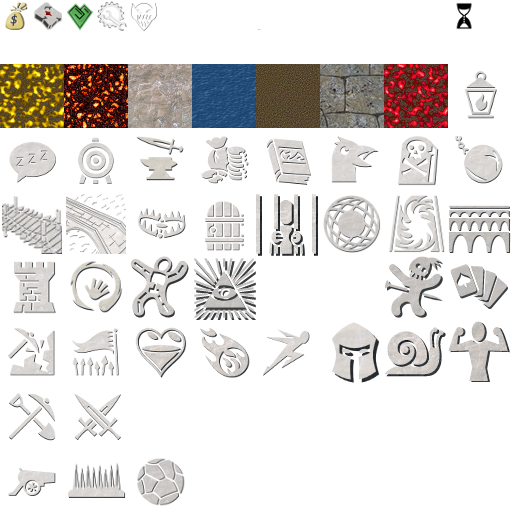
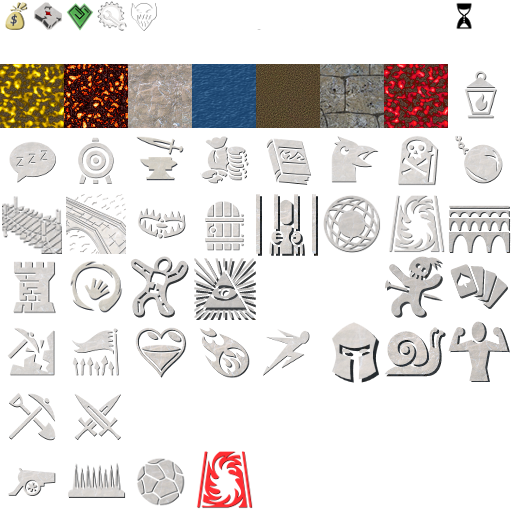
Let the editor place the wave portal it can already edit
The editor offers two rooms of its own, a dungeon temple and a portal, so a
wave portal could only ever be edited in a level that already had one. Add a
third button for it, next to the portal, drawn with the portal's glyph in red
so the two cannot be confused.

Claude-Session: https://claude.ai/code/session_01JiKh7f4nenYBTjhJfAGa3y

Changed region(s): [[0.375, 0.875, 0.5, 1.0]]

diff --git a/source/modes/EditorMode.cpp b/source/modes/EditorMode.cpp
@@ -426,6 +426,13 @@ EditorMode::EditorMode(ModeManager* modeManager):
         )
     );
 
+    addEventConnection(
+        mRootWindow->getChild(Gui::BUTTON_PORTAL_WAVE)->subscribeEvent(
+          CEGUI::PushButton::EventClicked,
+          CEGUI::Event::Subscriber(RoomSelector(RoomType::portalWave, mPlayerSelection))
+        )
+    );
+
     // Wave portal window
     addEventConnection(
         mRootWindow->getChild("EditorPortalWavesWindow")->subscribeEvent(
@@ -2390,6 +2397,7 @@ void EditorMode::refreshGuiSkill()
     // We also display the editor only buttons
     guiSheet->getChild(Gui::BUTTON_TEMPLE)->show();
     guiSheet->getChild(Gui::BUTTON_PORTAL)->show();
+    guiSheet->getChild(Gui::BUTTON_PORTAL_WAVE)->show();
 }
 
 void EditorMode::connectTileSelect(const std::string& buttonName, TileVisual tileVisual)

diff --git a/source/render/Gui.cpp b/source/render/Gui.cpp
@@ -151,6 +151,7 @@ const std::string Gui::MAIN_TABCONTROL = "MainTabControl";
 const std::string Gui::TAB_ROOMS = "MainTabControl/Rooms";
 const std::string Gui::BUTTON_TEMPLE = "MainTabControl/Rooms/TempleButton";
 const std::string Gui::BUTTON_PORTAL = "MainTabControl/Rooms/PortalButton";
+const std::string Gui::BUTTON_PORTAL_WAVE = "MainTabControl/Rooms/WavePortalButton";
 const std::string Gui::BUTTON_DESTROY_ROOM = "MainTabControl/Rooms/DestroyRoomButton";
 const std::string Gui::TAB_TRAPS = "MainTabControl/Traps";
 const std::string Gui::BUTTON_DESTROY_TRAP = "MainTabControl/Traps/DestroyTrapButton";

diff --git a/source/render/Gui.h b/source/render/Gui.h
@@ -97,6 +97,7 @@ public:
     static const std::string TAB_ROOMS;
     static const std::string BUTTON_TEMPLE;
     static const std::string BUTTON_PORTAL;
+    static const std::string BUTTON_PORTAL_WAVE;
     static const std::string BUTTON_DESTROY_ROOM;
     static const std::string TAB_TRAPS;
     static const std::string BUTTON_DESTROY_TRAP;
